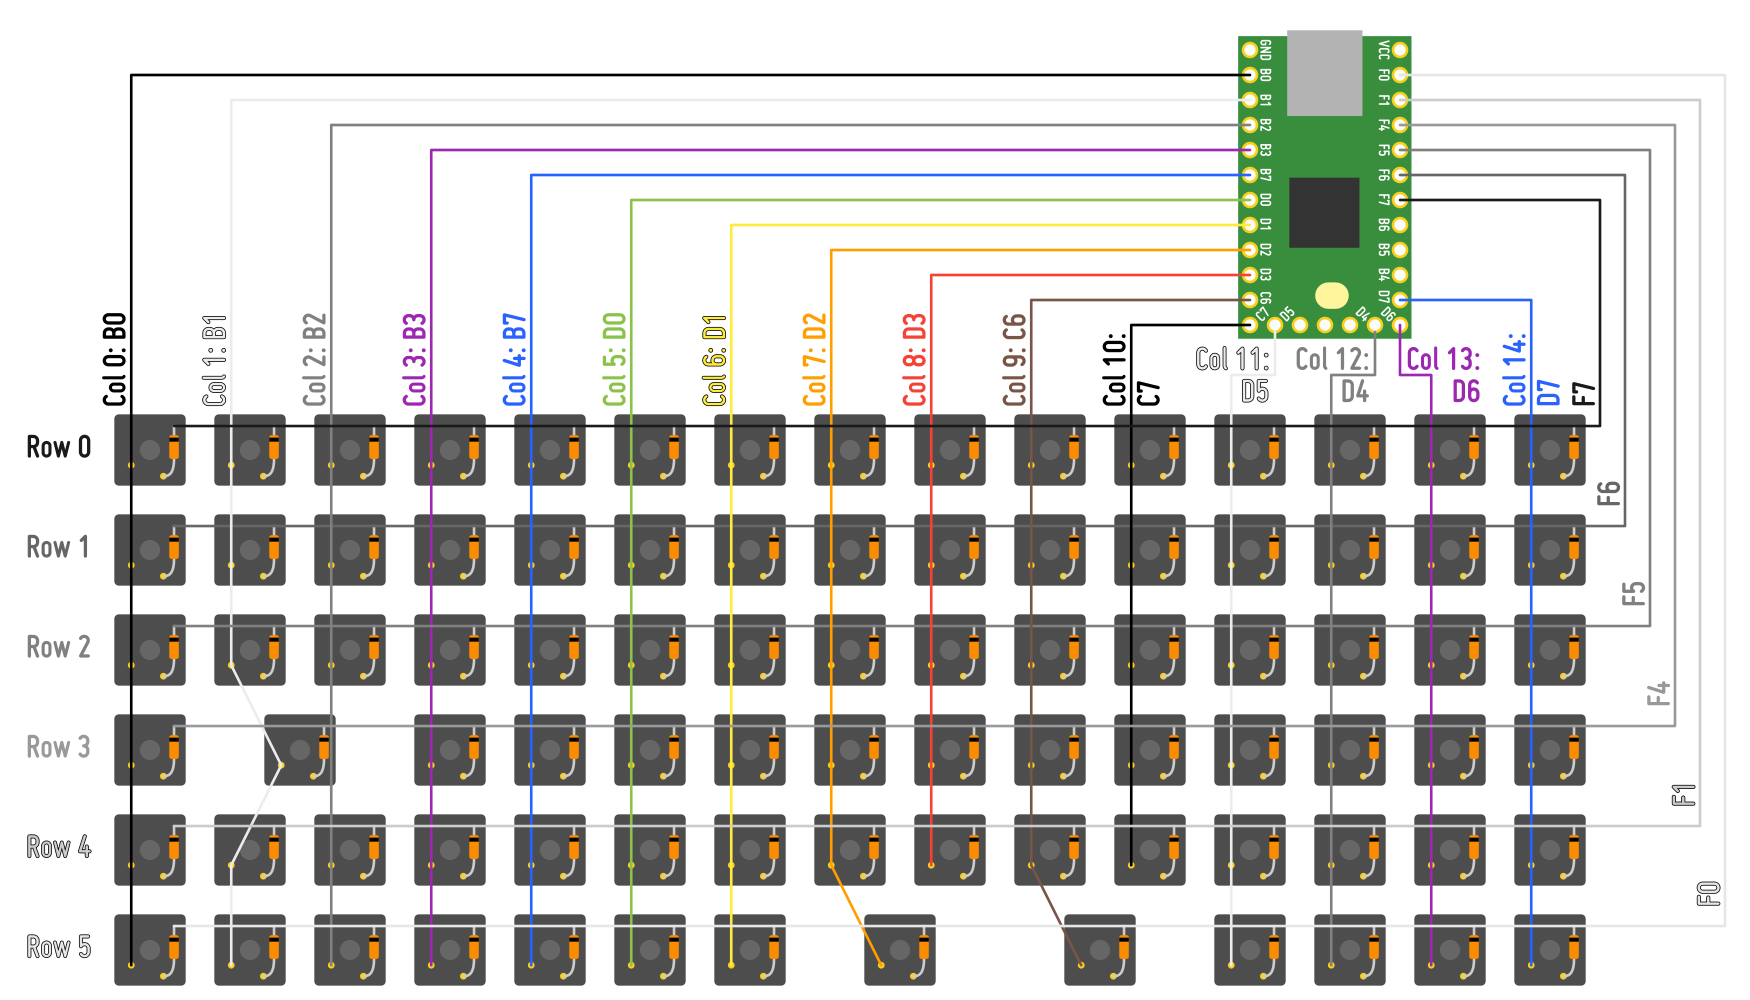
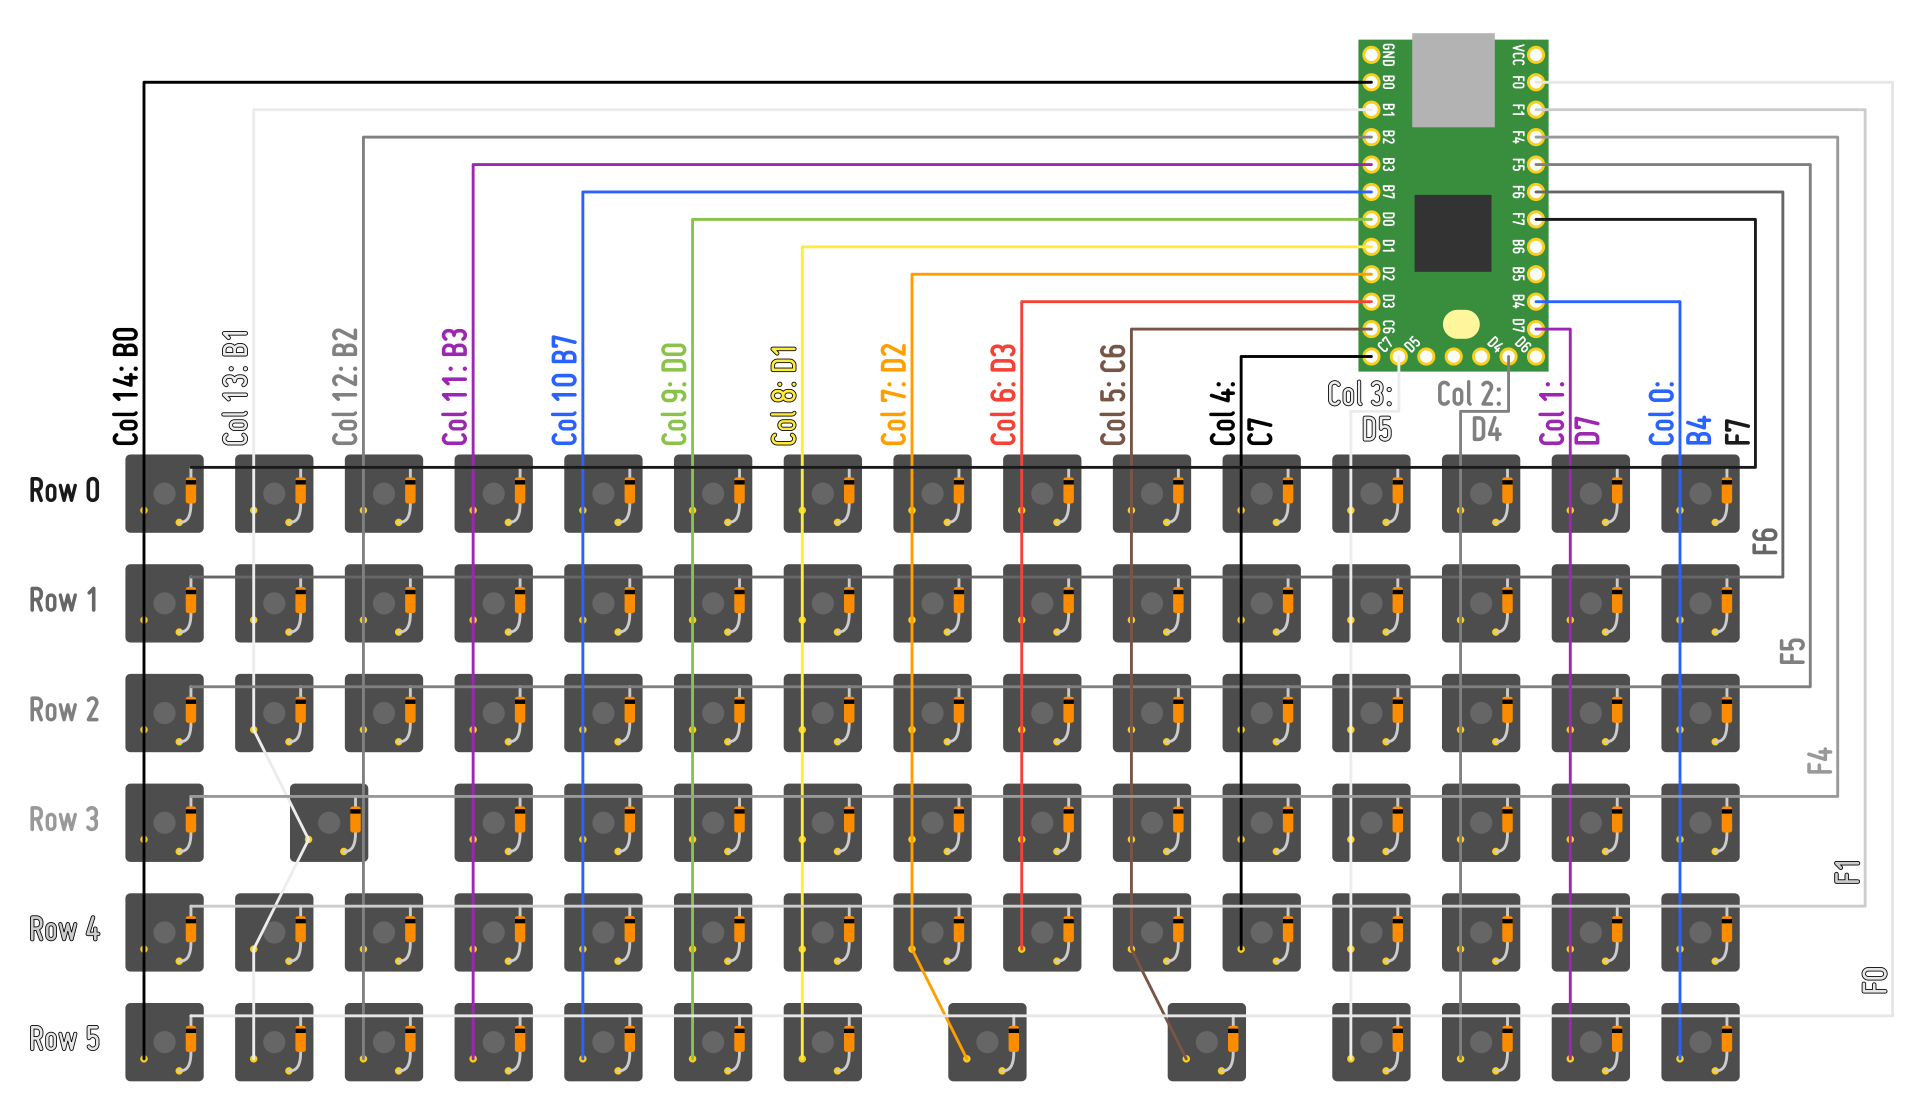
Working on firmware/layouts

diff --git a/docs/projects/keyboard.md b/docs/projects/keyboard.md
@@ -101,7 +101,7 @@ As I start to look at keycap designs and stabilization, I'm realizing that my 3u
 
 I also realized my first design had the bottom row of letters shifted over 1u to the left from what my current setup is, which would inevitably drive me up a wall. So now I'm switching to hoping that a 1u shift key doesn't drive me up a wall instead.
 
-Which brings us to the next layout, now with 87 keys (and made in Inkscape):
+Which brings us to the updated layout, now with 87 keys (and made in Inkscape):
 
 ![Layout 2]({{ "/assets/img/projects/keyboard/keycaps.png" }})
 
@@ -114,6 +114,8 @@ For pointless funsies, I also thought it would be fun to make a function layer j
 And finally, I made an unnecessarily nice diagram of the wiring, without actually knowing if this will work.
 
 ![Keyboard wiring]({{ "/assets/img/projects/keyboard/wiring.png" }})
+
+*Note: to avoid confusing myself in the future, I'm updating this wiring figure to match what I'm actually doing. Trust me, the original still looked very similar.*
 
 Spend way too much Prednisone-fueled time in OnShape and I have a render of a first prototype!
 
@@ -202,89 +204,20 @@ This shows how it's very straightforward to set up the "standard" keys: alphanum
 
 ...But then I ran across multiple random forum threads like [this](https://deskthority.net/viewtopic.php?t=12622) and [this](https://geekhack.org/index.php?topic=41989.1400), which seem to say otherwise. Here, they set that key to be an unused `Fn` key (e.g., `FN8`), and then within `fn_actions[]`, they set that to be something like `[8]  = ACTION_MODS_KEY(MOD_LSFT, KC_MINS)`. That's way uglier. And based off of [this section of the keymap documentation](https://github.com/tmk/tmk_keyboard/blob/master/tmk_core/doc/keymap.md#15-fn-key), you can only have 32 function keys. If that's really the case, the emoji layer is probably dead. (Also, based on [this FAQ](https://github.com/tmk/tmk_keyboard/wiki/FAQ-Keymap#input-special-charactors-other-than-ascii-like-c%C3%A9dille-%C3%87), it seems like there's not even a universal way to implement unicode input; it's OS-specific.) Even my current modifier layer has about 40 custom keys.
 
-### Some incomplete playing around with keymaps
+### Long Live QMK
 
-```c
-const uint8_t PROGMEM keymaps[][MATRIX_ROWS][MATRIX_COLS] = {
-    /* 0: Letters & numbers (base layer)
-     * ,-----------------------------------------------------------.
-     * |Esc| F1| F2| F3| F4| F5| F6| F7| F8| F9|F10|F11|F12|Del|Pau|
-     * |-----------------------------------------------------------|
-     * | ` | 1 | 2 | 3 | 4 | 5 | 6 | 7 | 8 | 9 | 0 | - | = | ( | ) |
-     * |-----------------------------------------------------------|
-     * |Tab| Q | W | E | R | T | Y | U | I | O | P | [ | ] | \ |PgU|
-     * |-----------------------------------------------------------|
-     * | _ | A | S | D | F | G | H | J | K | L | ; | ' | Enter |PgD|
-     * |-----------------------------------------------------------|
-     * |Shf| Z | X | C | V | B | N | M | , | . | / |Cap|Hom| Up|End|
-     * |-----------------------------------------------------------|
-     * |Ctl|Alt|Sup|Del|Backspc| Space |Ent|Alt|Fn0|Fn1|Lft|Dwn| Rt|
-     * `-----------------------------------------------------------'
-     */
-    KEYMAP( ESC, F1,  F2,  F3,  F4,  F5,  F6,  F7,  F8,  F9, F10, F11, F12, DEL,PAUS, \
-            GRV,  1,   2,   3,   4,   5,   6,   7,   8,   9,   0,MINS, EQL,SHIFT(9),SHIFT(0), \
-            TAB,  Q,   W,   E,   R,   T,   Y,   U,   I,   O,   P,LBRC,RBRC,BSLS,PGUP, \
-            SHIFT(MINS),  A,   S,   D,   F,   G,   H,   J,   K,   L,SCLN,QUOT,      ENT,PGDN, \
-           LSFT,  Z,   X,   C,   V,   B,   N,   M,COMM, DOT,SLSH,CAPS,HOME,  UP, END, \
-           LCTL,LALT,LGUI,DEL,     BSPC,      SPC, ENT,RALT, FN0, FN1,LEFT,DOWN,RGHT),
-    /* 1: Cursor(HHKB mode)
-     * ,-----------------------------------------------------------.
-     * |SLP|1/2|2/3|1/3|1/4|3/4|   |   |1/8|1/9|/10|   |   |   |Prt|
-     * |-----------------------------------------------------------|
-     * |   | ‽ | ° |   | € |   |   | • | × |   | ∅ | – | ± | ⟨ | ⟩ |
-     * |-----------------------------------------------------------|
-     * |   |   |   | ∃ |   | ™ |   | ∪ | ∈ | Ω | ∝ |   |   | ≈ |VUp|
-     * |-----------------------------------------------------------|
-     * | _ | α | ∑ | ° | ∀ |   |   |   |   | λ | ∴ | ⋯ |   ↵   |VDn|
-     * |-----------------------------------------------------------|
-     * |   | ✓ | ✗ | © |   | β |   | μ | ≤ | ≥ | ÷ | ≠ |   | ↑ |   |
-     * |-----------------------------------------------------------|
-     * |   |   |   |   |       |   ⋅   | ↵ |   |   |   | ← | ↓ | → |
-     * `-----------------------------------------------------------'
-     *
-     * ,-----------------------------------------------------------.
-     * |Pwr| F1| F2| F3| F4| F5| F6| F7| F8| F9|F10|F11|F12|Ins|Del|
-     * |-----------------------------------------------------------|
-     * |Caps |   |   |   |   |   |   |   |Psc|Slk|Pus|Up |   |Backs|
-     * |-----------------------------------------------------------|
-     * |Contro|VoD|VoU|Mut|   |   |  *|  /|Hom|PgU|Lef|Rig|Enter   |
-     * |-----------------------------------------------------------|
-     * |Shift   |   |   |   |   |   |  +|  -|End|PgD|Dow|Shift |   |
-     * `-----------------------------------------------------------'
-     *      |Gui |Alt  |Space                  |Alt  |Gui|
-     *      `--------------------------------------------'
-     */
-    KEYMAP(PWR, F1,  F2,  F3,  F4,  F5,  F6,  F7,  F8,  F9,  F10, F11, F12, INS, DEL, \
-           CAPS,TRNS,TRNS,TRNS,TRNS,TRNS,TRNS,TRNS,PSCR,SLCK,PAUS,UP,  TRNS,BSPC, \
-           LCTL,VOLD,VOLU,MUTE,TRNS,TRNS,PAST,PSLS,HOME,PGUP,LEFT,RGHT,ENT, \
-           LSFT,TRNS,TRNS,TRNS,TRNS,TRNS,PPLS,PMNS,END, PGDN,DOWN,RSFT,TRNS, \
-                LGUI,LALT,          SPC,                RALT,RGUI),
-    /* 2: Mousekey
-     * ,-----------------------------------------------------------.
-     * |Esc| F1| F2| F3| F4| F5| F6| F7| F8| F9|F10|F11|F12|Ins|Del|
-     * |-----------------------------------------------------------|
-     * |Tab  |   |   |   |   |   |MwL|MwD|MwU|MwR|   |   |   |Backs|
-     * |-----------------------------------------------------------|
-     * |Contro|   |   |   |   |   |McL|McD|McU|McR|   |   |Return  |
-     * |-----------------------------------------------------------|
-     * |Shift   |   |   |   |   |Mb3|Mb2|Mb1|Mb4|Mb5|   |Shift |   |
-     * `-----------------------------------------------------------'
-     *      |Gui |Alt  |Mb1                    |Alt  |   |
-     *      `--------------------------------------------'
-     * Mc: Mouse Cursor / Mb: Mouse Button / Mw: Mouse Wheel
-     */
-    KEYMAP(ESC, F1,  F2,  F3,  F4,  F5,  F6,  F7,  F8,  F9,  F10, F11, F12, INS, DEL, \
-           TAB, TRNS,TRNS,TRNS,TRNS,TRNS,WH_L,WH_D,WH_U,WH_R,TRNS,TRNS,TRNS,BSPC, \
-           LCTL,TRNS,ACL0,ACL1,ACL2,TRNS,MS_L,MS_D,MS_U,MS_R,TRNS,QUOT,ENT, \
-           LSFT,TRNS,TRNS,TRNS,TRNS,BTN3,BTN2,BTN1,BTN4,BTN5,SLSH,RSFT,TRNS, \
-                LGUI,LALT,          BTN1,               RALT,TRNS),
-};
+After looking around more, it turns out that there are way better options than TMK. As fork of it has since taken off and become its own thing: QMK. And QMK has *way* better documentation and more features, like native (software-based) support for unicode. So let's use that instead. As a bonus, when you get it working, you can submit a pull request (even for your homemade, handwired keyboard), and they'll include it in the repository so other people can make it!
 
-const action_t PROGMEM fn_actions[] = {
-    [0] = ACTION_LAYER_MOMENTARY(1),            // FN0
-    [1] = ACTION_LAYER_MOMENTARY(2),            // FN1
-};
-```
+But that means we first have to go through the process of [creating a custom layout for a hand-wired board](https://docs.qmk.fm/#/hand_wire).
+
+- Need to run `make git-submodule` to fix LUFA error
+- Add reset key ([guessing from this](https://github.com/qmk/qmk_firmware/blob/master/docs/keycodes.md))
+
+### TODO:
+
+- Initialize Unicode input method? (Not sure if this is needed)
+- Add a way to cycle through unicode input methods
+- Make a macro that outputs some stupid copypasta (because we can)
 
 ## Bill of materials
 
